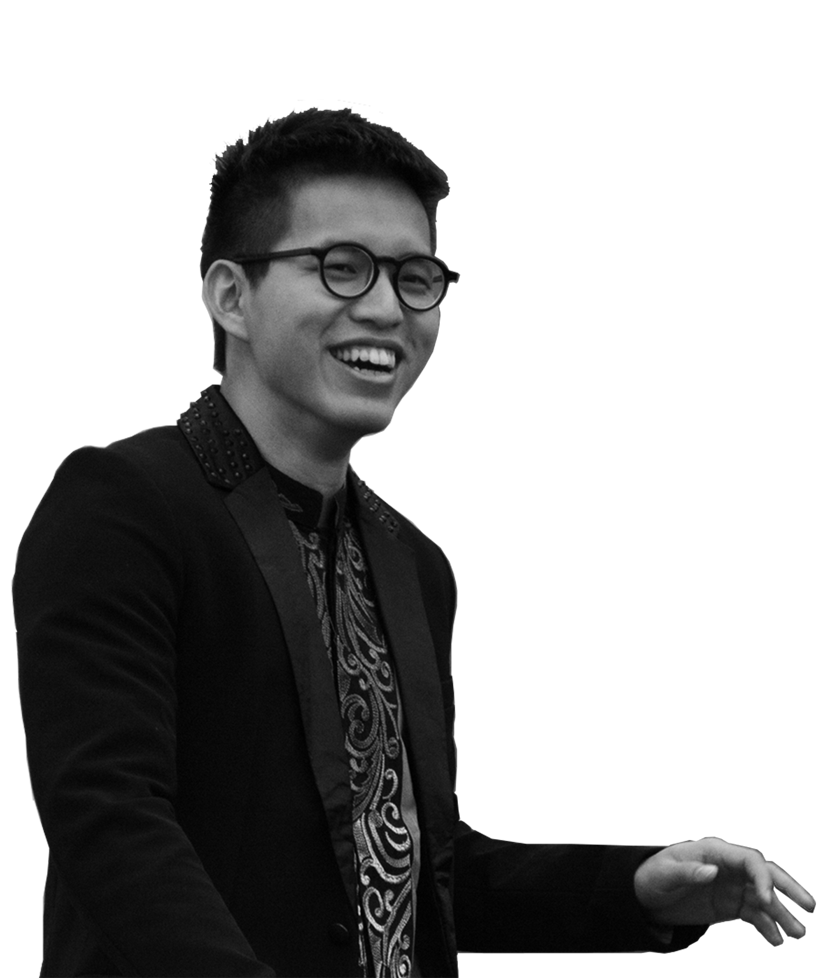
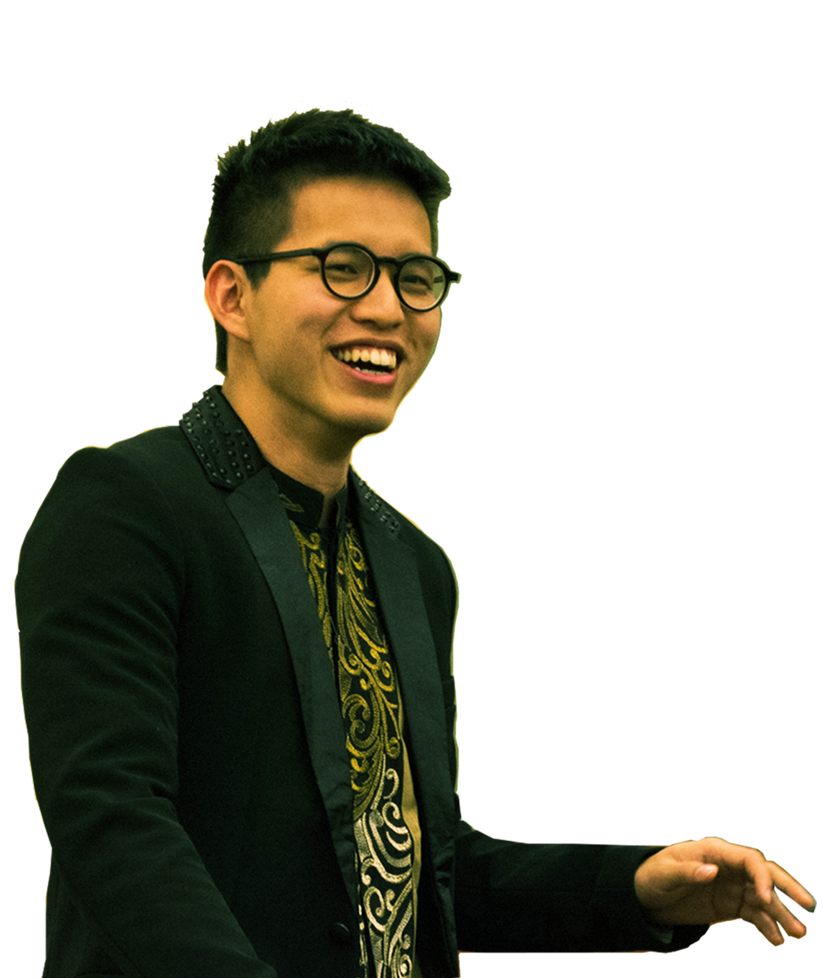
added color animation

diff --git a/assets/style.css b/assets/style.css
@@ -1,13 +1,32 @@
+/* jwangsadinata.com */
+
+/* Animations */
 @keyframes fadeIn {
-  from {
+  0% {
     opacity: 0;
   }
 
-  to {
+  100% {
     opacity: 1;
   }
 }
 
+@keyframes grayScale {
+  0% {
+    -webkit-filter: grayscale(100%);
+    -mos-filter: grayscale(100%);
+    -moz-filter: grayscale(100%);
+    filter: grayscale(100%);
+  }
+  100% {
+    -webkit-filter: grayscale(0%);
+    -mos-filter: grayscale(0%);
+    -moz-filter: grayscale(0%);
+    filter: grayscale(0%);
+  }
+}
+
+/* Main CSS */
 body {
   margin: 0px;
   background-color: white;
@@ -26,18 +45,21 @@ body a:hover {
 }
 
 #title {
-  -webkit-animation: fadeIn 1.75s;
-  -o-animation: fadeIn 1.75s;
-  animation: fadeIn 1.75s;
+  -webkit-animation: fadeIn 1.75s ease-in 0.25s;
+  -o-animation: fadeIn 1.75s ease-in 0.25s;
+  animation: fadeIn 1.75s ease-in 0.25s;
+}
+
+p {
+  -webkit-animation: fadeIn 1.75s ease-in 0.25s;
+  -o-animation: fadeIn 1.75s ease-in 0.25s;
+  animation: fadeIn 1.75s ease-in 0.25s;
 }
 
 body .container {
   margin: 10px 0 0 auto;
   padding-left: 50px;
   padding-right: 50px;
-  -webkit-animation: fadeIn 1.75s;
-  -o-animation: fadeIn 1.75s;
-  animation: fadeIn 1.75s;
 }
 
 @media (min-width: 900px) {
@@ -45,6 +67,11 @@ body .container {
     background: url("jasonweb.png") no-repeat top right;
     height: 1000px;
     width: 1500px;
+    -webkit-filter: grayscale(100%);
+    filter: grayscale(100%);
+    -webkit-animation: grayScale 8s linear 2s 3 alternate forwards;
+    -o-animation: grayScale 8s linear 2s 3 alternate forwards;
+    animation: grayScale 8s linear 2s 3 alternate forwards;
   }
 
   body .container p {
@@ -60,6 +87,7 @@ body .container {
   }
 }
 
+/* Mobile - no background img */
 @media handheld, screen and (max-width: 900px) {
   img {
     max-height: 100%;
